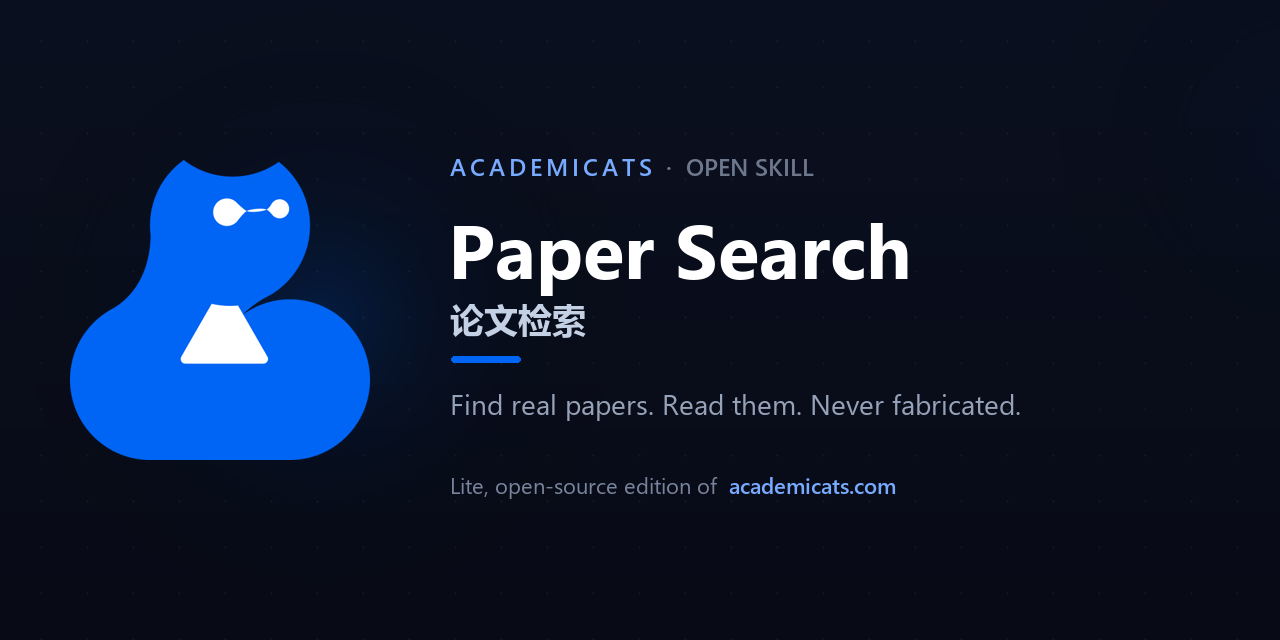
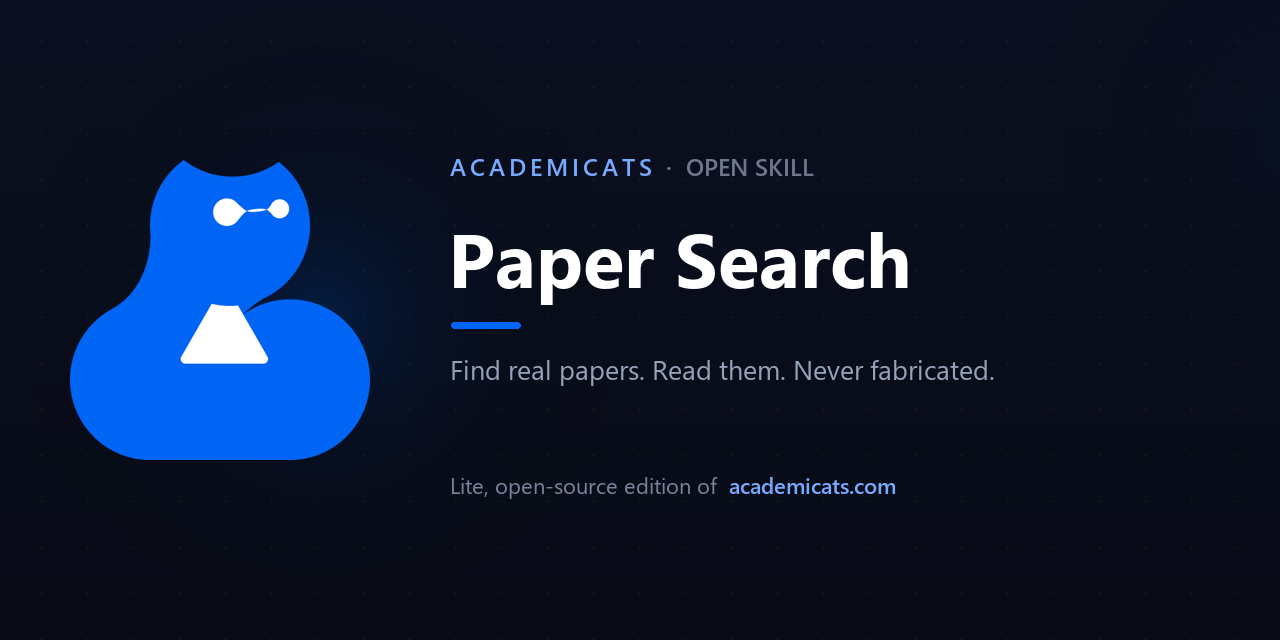
feat: monolingual covers, one-click family installer, UX polish
- Separate English (cover.png) and Chinese (cover-zh.png) banners so each
  README is fully single-language.
- Add install.sh: one command installs all three skills + pypdf into Claude Code.
- READMEs: skill-family cross-links + install-all line + FAQ.

Changed region(s): [[0.3438, 0.3438, 0.7812, 0.5938], [0.3438, 0.625, 0.8125, 0.6562]]

diff --git a/README.zh-CN.md b/README.zh-CN.md
@@ -2,7 +2,7 @@
 
 [English](README.md) · **中文**
 
-<img src="assets/cover.png" alt="AcademiCats · Paper Search" width="100%">
+<img src="assets/cover-zh.png" alt="AcademiCats · Paper Search" width="100%">
 
 <br>
 
@@ -90,6 +90,8 @@ cd ~/.claude/skills/paper-search && python -m pip install -r scripts/requirement
 - 🔍 **论文检索** *（你在这里）* —— 找文献、读文献
 - ✍️ [文献写作台](https://github.com/jy1529098645-gif/Cat_synthesis_lab) —— 据你的文献写出有据成稿
 - 🧪 [模拟同行评审](https://github.com/jy1529098645-gif/Cat_paper_review) —— 对你自己的草稿做同行评审
+
+**一次装齐三个** —— clone 任意一个仓库后运行 `bash install.sh`。
 
 ## 🙋 常见问题
 

diff --git a/README.md b/README.md
@@ -91,6 +91,8 @@ Three open skills that chain into one research workflow — install any or all:
 - ✍️ [Synthesis Lab](https://github.com/jy1529098645-gif/Cat_synthesis_lab) — write grounded papers from your sources
 - 🧪 [Paper Review](https://github.com/jy1529098645-gif/Cat_paper_review) — peer-review your own draft
 
+**Install all three at once** — clone any one repo, then run `bash install.sh`.
+
 ## 🙋 FAQ
 
 - **It didn't trigger?** Restart Claude Code after installing, and phrase your message as a task — *"find recent papers on …"*.